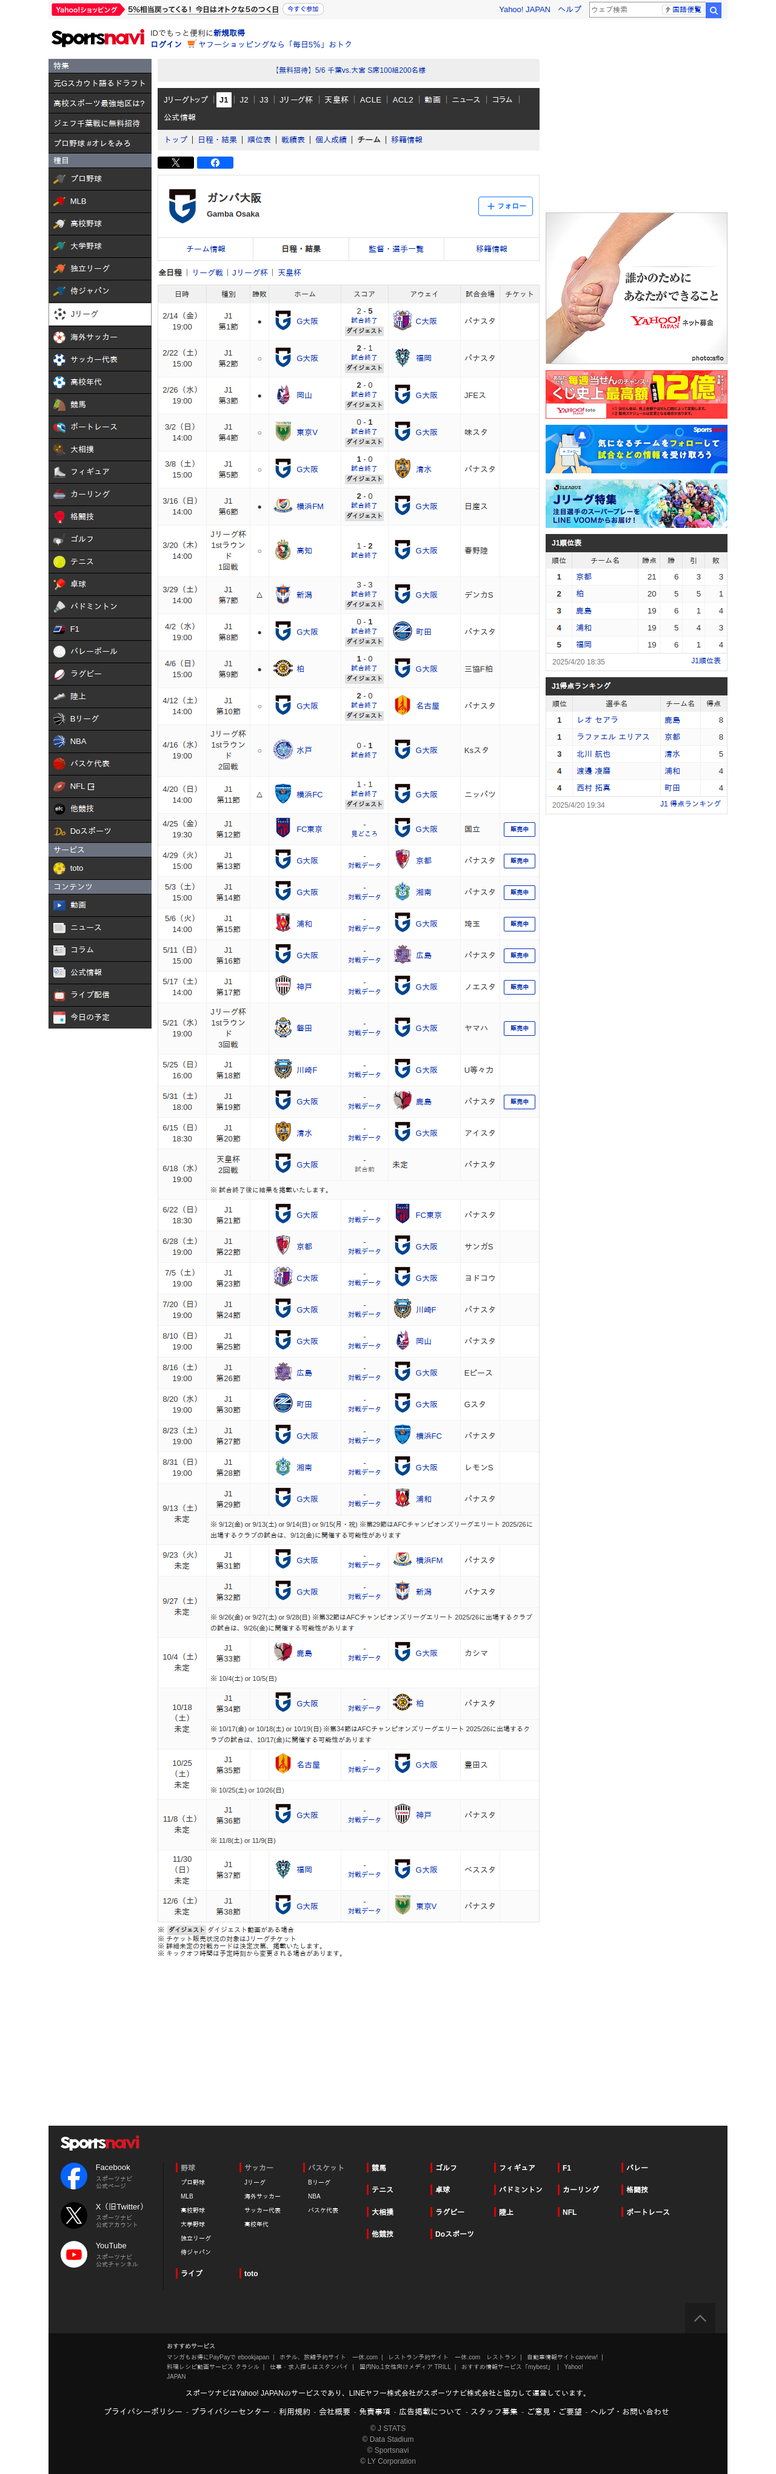
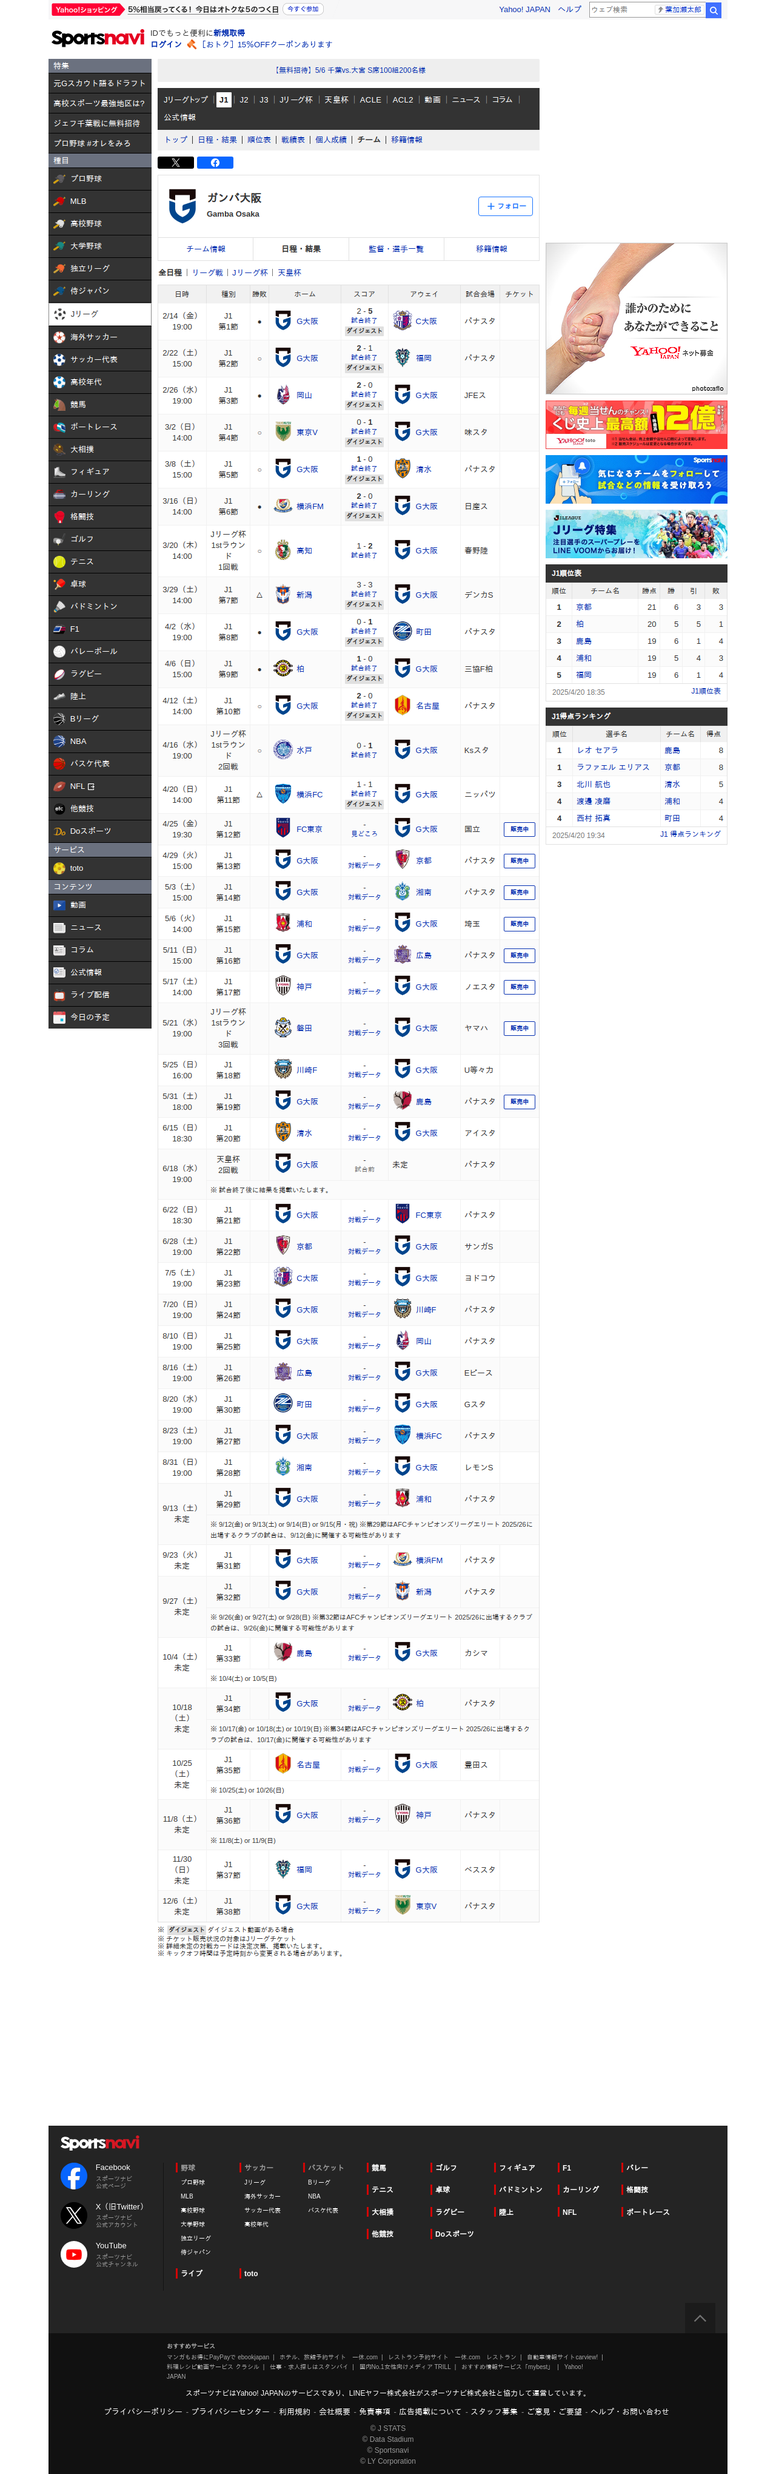
Update G大阪 match info

Changed region(s): [[0.6875, 0.0623, 0.9375, 0.3427]]

diff --git a/cache/debug_team_page.html b/cache/debug_team_page.html
@@ -54,14 +54,14 @@
 
       <script type="text/javascript" src="/js/pc/script.js?null"></script>
       
-        <script type="text/javascript" src="https://s.yimg.jp/l/jquery/3.5.1/jquery.min.js"></script>
+        <script type="text/javascript" src="https://s.yimg.jp/l/jquery/3.5.1/jquery.min.js"></script><link rel="preconnect" href="https://dsb.yahoo.co.jp">
       
     
   <meta name="viewport" content="width=1140">
   <link>
-  <script type="text/javascript" src="https://yads.c.yimg.jp/js/yads-async.js"></script><link rel="preconnect" href="https://dsb.yahoo.co.jp">
+  <script type="text/javascript" src="https://yads.c.yimg.jp/js/yads-async.js"></script>
   
[2 lines of base64/hex data omitted]
 <body>
 
 
@@ -93,21 +93,21 @@
 
   <div class="sc-templa">
     
-    <div id="TEMPLA_MH_VDOM" style="display: block; min-height: 88px;"><div id="msthd"><div id="mhHeadLine"><div id="mhd_uhd_pc" style="display: inline-block;"><div id="msthdFifth"><div class="compo"><a href="https://rdr.yahoo.co.jp/v1/label=L21lbXBmL21oZC91aGQvcGMvMTkzMTYwLzk4MjQ1LzE2MTI4ODMvMQ/p=mempf/d=mempf_redirect_api_log/tk=8dec6df6-7d6e-4085-b834-5afb49ed6c82/ru=aHR0cHM6Ly9zaG9wcGluZy55YWhvby5jby5qcC9wcm9tb3Rpb24vY2FtcGFpZ24vNWRheS8_c2NfZT15eWxrX21oZF9vYmlfbWxnaW4/" data-ylk="slk:h_promo;pos:0" id="msthdUhdPrLink" class="rapid-noclick-resp" data-mhd="promotionLink" data-listener-attached="true"><span class="noLogin">5％相当戻ってくる！ 今日はオトクな5のつく日</span></a></div></div><img src="https://dsb.yahoo.co.jp/api/v1/clear.gif?tk=8dec6df6-7d6e-4085-b834-5afb49ed6c82&amp;p=mempf&amp;d=mempf_tracking_pixel_log&amp;aid=1612883&amp;oid=98245&amp;pid=mhd_uhd_pc&amp;service=soccer&amp;sid=193160&amp;tt=1745547429&amp;usi=193160&amp;location=soccer.yahoo.co.jp&amp;fromjs=mhd" style="display: none;"></div><div id="mhSearchLink"><ul id="mhLinkBox"><li id="mhLinkYtop"><a data-redirectadclick="" href="https://www.yahoo.co.jp/" data-mhd="topLink" data-listener-attached="true">Yahoo! JAPAN</a></li><li id="mhLinkHelp"><a data-redirectadclick="" href="https://support.yahoo-net.jp/PccSports/s/" id="mhHelpLink" data-mhd="helpLink" data-listener-attached="true">ヘルプ</a></li></ul><div id="mhSearchBox"><form data-redirectadclick="" action="https://search.yahoo.co.jp/search" name="p"><div id="mhSearch"><label id="msthdslb" for="msthdsbox" title="キーワード：" class="offLeft">キーワード：</label> <input id="mhSearchInput" type="text" name="p" value="" placeholder="ウェブ検索" data-mhd="searchBox" style=""> <button id="mhSearchBtn" type="submit" title="検索" data-mhd="searchButton" data-listener-attached="true">検索</button> <input type="hidden" name="ei" value="UTF-8" id="msthdei" style=""> <input type="hidden" name="fr" value="ush" style=""><a id="pickupWord" href="https://search.yahoo.co.jp/search?ei=UTF-8&amp;rkf=1&amp;p=%E5%9B%BD%E8%AA%9E%E4%BE%BF%E8%A6%A7&amp;sks=bzw&amp;fr=ush_krank&amp;t.rltm.w2s=true" data-mhd="pcPickupwordLink" data-listener-attached="true">国語便覧<img id="pickupWordImg" src="https://s.yimg.jp/images/templa/mhd/v2/images/boost_14_xsmall.svg" alt="急上昇"><img src="https://dsb.yahoo.co.jp/api/v1/clear.gif?tk=40081eda-fd9b-4ef9-9850-1fc96b3e713f&amp;p=templa&amp;d=mhd_v3&amp;dv=pc&amp;c=cl&amp;t=v&amp;lv=1.0&amp;tv=1.16.0_1.17.0&amp;url=https%3A%2F%2Fsoccer.yahoo.co.jp%2Fjleague%2Fcategory%2Fj1%2Fteams%2F128%2Fschedule%3Fgk%3D2&amp;src=pcPickupwordLink&amp;dt=1745547429640" style="display: none;"></a></div></form></div></div></div><div id="mhMain"><div id="mhServiceLogo"><a data-redirectadclick="" href="https://sports.yahoo.co.jp/" id="mhLogo" data-mhd="pcServiceLogo" data-listener-attached="true"><img src="https://s.yimg.jp/images/sports/common/logo/spn/l_spn_153_2x.png" alt="スポーツナビ" width="153" height="30"></a></div><div id="mhInfos" style="display: table-cell;"><div id="mhRegInfo" class="mhUserInfo" data-mhd="idAppealLink">IDでもっと便利に<a data-redirectadclick="" href="https://account.edit.yahoo.co.jp/signup?.intl=jp&amp;.done=https%3A%2F%2Fsoccer.yahoo.co.jp%2Fjleague%2Fcategory%2Fj1%2Fteams%2F128%2Fschedule%3Fgk%3D2&amp;.src=sports" id="mhReg" data-mhd="userAppealLink" data-listener-attached="true">新規取得</a></div><div id="mhRatelimitInfo" class="mhUserInfo"><a data-redirectadclick="" href="https://accounts.yahoo.co.jp/profile?.src=sports&amp;.done=https%3A%2F%2Fsoccer.yahoo.co.jp%2Fjleague%2Fcategory%2Fj1%2Fteams%2F128%2Fschedule%3Fgk%3D2" id="mhRatelimit" data-mhd="ratelimitLink" data-listener-attached="true">登録情報を確認</a> <a data-redirectadclick="" href="https://login.yahoo.co.jp/config/login?.src=sports&amp;lg=jp&amp;.intl=jp&amp;.done=https%3A%2F%2Fsoccer.yahoo.co.jp%2Fjleague%2Fcategory%2Fj1%2Fteams%2F128%2Fschedule%3Fgk%3D2" id="mhLogin" data-mhd="pcLoginLink" data-listener-attached="true">ログイン</a> <span id="mhd_text_pc" style="display: inline-block;"><a href="https://rdr.yahoo.co.jp/v1/label=L21lbXBmL21oZC90ZXh0L3BjLzE5NTEwMS8yMzY3MDIvMTYyOTg5Ni8x/p=mempf/d=mempf_redirect_api_log/tk=8dec6df6-7d6e-4085-b834-5afb49ed6c82/ru=aHR0cHM6Ly9zaG9wcGluZy55YWhvby5jby5qcC9wcm9tb3Rpb24vY2FtcGFpZ24vcHBldnI1Lz9zY19lPXl5bGtfbWhkX3R4dF9wcGV2cjU/" id="msthdPrLink" class="msthdPrShpIcon" data-mhd="pcHeaderPromotion" data-listener-attached="true">ヤフーショッピングなら「毎日5％」おトク</a>
+    <div id="TEMPLA_MH_VDOM" style="display: block; min-height: 88px;"><div id="msthd"><div id="mhHeadLine"><div id="mhd_uhd_pc" style="display: inline-block;"><div id="msthdFifth"><div class="compo"><a href="https://rdr.yahoo.co.jp/v1/label=L21lbXBmL21oZC91aGQvcGMvMTkzMTYwLzk4MjQ1LzE2MTI4ODMvMQ/p=mempf/d=mempf_redirect_api_log/tk=8dec6df6-7d6e-4085-b834-5afb49ed6c82/ru=aHR0cHM6Ly9zaG9wcGluZy55YWhvby5jby5qcC9wcm9tb3Rpb24vY2FtcGFpZ24vNWRheS8_c2NfZT15eWxrX21oZF9vYmlfbWxnaW4/" data-ylk="slk:h_promo;pos:0" id="msthdUhdPrLink" class="rapid-noclick-resp" data-mhd="promotionLink" data-listener-attached="true"><span class="noLogin">5％相当戻ってくる！ 今日はオトクな5のつく日</span></a></div></div><img src="https://dsb.yahoo.co.jp/api/v1/clear.gif?tk=8dec6df6-7d6e-4085-b834-5afb49ed6c82&amp;p=mempf&amp;d=mempf_tracking_pixel_log&amp;aid=1612883&amp;oid=98245&amp;pid=mhd_uhd_pc&amp;service=soccer&amp;sid=193160&amp;tt=1745547682&amp;usi=193160&amp;location=soccer.yahoo.co.jp&amp;fromjs=mhd" style="display: none;"></div><div id="mhSearchLink"><ul id="mhLinkBox"><li id="mhLinkYtop"><a data-redirectadclick="" href="https://www.yahoo.co.jp/" data-mhd="topLink" data-listener-attached="true">Yahoo! JAPAN</a></li><li id="mhLinkHelp"><a data-redirectadclick="" href="https://support.yahoo-net.jp/PccSports/s/" id="mhHelpLink" data-mhd="helpLink" data-listener-attached="true">ヘルプ</a></li></ul><div id="mhSearchBox"><form data-redirectadclick="" action="https://search.yahoo.co.jp/search" name="p"><div id="mhSearch"><label id="msthdslb" for="msthdsbox" title="キーワード：" class="offLeft">キーワード：</label> <input id="mhSearchInput" type="text" name="p" value="" placeholder="ウェブ検索" data-mhd="searchBox" style=""> <button id="mhSearchBtn" type="submit" title="検索" data-mhd="searchButton" data-listener-attached="true">検索</button> <input type="hidden" name="ei" value="UTF-8" id="msthdei" style=""> <input type="hidden" name="fr" value="ush" style=""><a id="pickupWord" href="https://search.yahoo.co.jp/search?ei=UTF-8&amp;rkf=1&amp;p=%E8%91%89%E5%8A%A0%E7%80%AC%E5%A4%AA%E9%83%8E&amp;sks=bzw&amp;fr=ush_krank&amp;t.rltm.w2s=true" data-mhd="pcPickupwordLink" data-listener-attached="true">葉加瀬太郎<img id="pickupWordImg" src="https://s.yimg.jp/images/templa/mhd/v2/images/boost_14_xsmall.svg" alt="急上昇"><img src="https://dsb.yahoo.co.jp/api/v1/clear.gif?tk=40081eda-fd9b-4ef9-9850-1fc96b3e713f&amp;p=templa&amp;d=mhd_v3&amp;dv=pc&amp;c=cl&amp;t=v&amp;lv=1.0&amp;tv=1.16.0_1.17.0&amp;url=https%3A%2F%2Fsoccer.yahoo.co.jp%2Fjleague%2Fcategory%2Fj1%2Fteams%2F128%2Fschedule%3Fgk%3D2&amp;src=pcPickupwordLink&amp;dt=1745547682966" style="display: none;"></a></div></form></div></div></div><div id="mhMain"><div id="mhServiceLogo"><a data-redirectadclick="" href="https://sports.yahoo.co.jp/" id="mhLogo" data-mhd="pcServiceLogo" data-listener-attached="true"><img src="https://s.yimg.jp/images/sports/common/logo/spn/l_spn_153_2x.png" alt="スポーツナビ" width="153" height="30"></a></div><div id="mhInfos" style="display: table-cell;"><div id="mhRegInfo" class="mhUserInfo" data-mhd="idAppealLink">IDでもっと便利に<a data-redirectadclick="" href="https://account.edit.yahoo.co.jp/signup?.intl=jp&amp;.done=https%3A%2F%2Fsoccer.yahoo.co.jp%2Fjleague%2Fcategory%2Fj1%2Fteams%2F128%2Fschedule%3Fgk%3D2&amp;.src=sports" id="mhReg" data-mhd="userAppealLink" data-listener-attached="true">新規取得</a></div><div id="mhRatelimitInfo" class="mhUserInfo"><a data-redirectadclick="" href="https://accounts.yahoo.co.jp/profile?.src=sports&amp;.done=https%3A%2F%2Fsoccer.yahoo.co.jp%2Fjleague%2Fcategory%2Fj1%2Fteams%2F128%2Fschedule%3Fgk%3D2" id="mhRatelimit" data-mhd="ratelimitLink" data-listener-attached="true">登録情報を確認</a> <a data-redirectadclick="" href="https://login.yahoo.co.jp/config/login?.src=sports&amp;lg=jp&amp;.intl=jp&amp;.done=https%3A%2F%2Fsoccer.yahoo.co.jp%2Fjleague%2Fcategory%2Fj1%2Fteams%2F128%2Fschedule%3Fgk%3D2" id="mhLogin" data-mhd="pcLoginLink" data-listener-attached="true">ログイン</a> <span id="mhd_text_pc" style="display: inline-block;"><a href="https://rdr.yahoo.co.jp/v1/label=L21lbXBmL21oZC90ZXh0L3BjLzE5NTEwMS8yMzUxNzgvMTYyOTg5Ni8x/p=mempf/d=mempf_redirect_api_log/tk=8dec6df6-7d6e-4085-b834-5afb49ed6c82/ru=aHR0cHM6Ly9hdWN0aW9ucy55YWhvby5jby5qcC9jYW1wYWlnbi9wcm9tby9zdG9yZV9saW1pdGVkX2NvdXBvbg/" id="msthdPrLink" class="msthdNewAucIcon" data-mhd="pcHeaderPromotion" data-listener-attached="true">［おトク］15％OFFクーポンあります</a>
 <style>
-#msthd .msthdPrShpIcon, .mhd .msthdPrShpIcon {
+#msthd .msthdNewAucIcon, .mhd .msthdNewAucIcon {
 display: inline-block;
 *display: inline;
 *zoom: 1;
 min-height: 18px;
-background-image: url(https://s.yimg.jp/c/icon/s/bsc/2.1/s/shopping40.png);
+background-image: url(https://s.yimg.jp/c/icon/s/bsc/2.1/a/auctions40.png);
 background-repeat: no-repeat;
 background-position: -2px 0;
 background-size: 18px 18px;
 padding-left: 18px;
 line-height: 1.5;
 }
-</style><img src="https://dsb.yahoo.co.jp/api/v1/clear.gif?tk=8dec6df6-7d6e-4085-b834-5afb49ed6c82&amp;p=mempf&amp;d=mempf_tracking_pixel_log&amp;aid=1629896&amp;oid=236702&amp;pid=mhd_text_pc&amp;service=soccer&amp;sid=195101&amp;tt=1745547429&amp;usi=195122%2C195116%2C196145%2C195101&amp;location=soccer.yahoo.co.jp&amp;fromjs=mhd" style="display: none;"></span></div></div></div><img src="https://dsb.yahoo.co.jp/api/v1/clear.gif?tk=40081eda-fd9b-4ef9-9850-1fc96b3e713f&amp;p=templa&amp;d=mhd_v3&amp;dv=pc&amp;c=cl&amp;t=v&amp;lv=1.0&amp;tv=1.16.0_1.17.0&amp;url=https%3A%2F%2Fsoccer.yahoo.co.jp%2Fjleague%2Fcategory%2Fj1%2Fteams%2F128%2Fschedule%3Fgk%3D2&amp;src=top&amp;dt=1745547428730" alt="" style="display: none;"></div><script src="https://s.yimg.jp/images/security/pf/yjsecure.js"></script><script src="https://s.yimg.jp/images/mempf/mhd/2_3_0/mempf.js"></script><script>window.msthdPromo=function(){YAHOO.JP.msthd.Promo.init()}</script><script>!function(t,e){var s=t.getElementsByTagName(e)[0],a=t.createElement(e);a.id="msthdScript",a.setAttribute("charset","UTF-8"),a.src="https://s.yimg.jp/images/templa/mhd/v2/pc/js/1.16.0/std-min.js",a.setAttribute("data-s",""),a.setAttribute("data-tm",""),s.parentNode.insertBefore(a,s)}(document,"script")</script></div><div id="TEMPLA_MHCSS"><link href="https://s.yimg.jp/images/templa/mhd/v2/pc/css/1.17.0/std.css" rel="stylesheet" type="text/css" media="all"></div><div id="TEMPLA_EMG"></div>
+</style><img src="https://dsb.yahoo.co.jp/api/v1/clear.gif?tk=8dec6df6-7d6e-4085-b834-5afb49ed6c82&amp;p=mempf&amp;d=mempf_tracking_pixel_log&amp;aid=1629896&amp;oid=235178&amp;pid=mhd_text_pc&amp;service=soccer&amp;sid=195101&amp;tt=1745547682&amp;usi=195122%2C195116%2C196145%2C195101&amp;location=soccer.yahoo.co.jp&amp;fromjs=mhd" style="display: none;"></span></div></div></div><img src="https://dsb.yahoo.co.jp/api/v1/clear.gif?tk=40081eda-fd9b-4ef9-9850-1fc96b3e713f&amp;p=templa&amp;d=mhd_v3&amp;dv=pc&amp;c=cl&amp;t=v&amp;lv=1.0&amp;tv=1.16.0_1.17.0&amp;url=https%3A%2F%2Fsoccer.yahoo.co.jp%2Fjleague%2Fcategory%2Fj1%2Fteams%2F128%2Fschedule%3Fgk%3D2&amp;src=top&amp;dt=1745547681683" alt="" style="display: none;"></div><script src="https://s.yimg.jp/images/security/pf/yjsecure.js"></script><script src="https://s.yimg.jp/images/mempf/mhd/2_3_0/mempf.js"></script><script>window.msthdPromo=function(){YAHOO.JP.msthd.Promo.init()}</script><script>!function(t,e){var s=t.getElementsByTagName(e)[0],a=t.createElement(e);a.id="msthdScript",a.setAttribute("charset","UTF-8"),a.src="https://s.yimg.jp/images/templa/mhd/v2/pc/js/1.16.0/std-min.js",a.setAttribute("data-s",""),a.setAttribute("data-tm",""),s.parentNode.insertBefore(a,s)}(document,"script")</script></div><div id="TEMPLA_MHCSS"><link href="https://s.yimg.jp/images/templa/mhd/v2/pc/css/1.17.0/std.css" rel="stylesheet" type="text/css" media="all"></div><div id="TEMPLA_EMG"></div>
     <div id="TEMPLA_EMG3_VDOM"><div id="TEMPLA_EMG3"><!-- EMG3 noResult --></div>
 <script>
     YAHOO = window.YAHOO || {};
@@ -6643,7 +6643,7 @@ div[class*=-centerColumn] [data-ino="id-57438"]#subnav .subNav__item--current a:
       
       <div class="sc-modCommon01">
         
-      <div id="ad-sqb" class="sc-modCommon02 target_modules"><div style="text-align:center;"><iframe src="https://s.yimg.jp/images/listing/tool/yads/yads-iframe.html?start_prod_num=0&amp;s=44304_13121&amp;fr_id=yads_5564582-0&amp;p_elem=ad-sqb&amp;type=jleague_pc_other&amp;u=https%3A%2F%2Fsoccer.yahoo.co.jp%2Fjleague%2Fcategory%2Fj1%2Fteams%2F128%2Fschedule%3Fgk%3D2&amp;pv_ts=1745547427902&amp;pcat_id=207&amp;suid=c2de5d62-88d4-4092-badc-7d39e57d58a9" style="border: none; clear: both; margin: auto; overflow: hidden;" allowtransparency="true" frameborder="0" height="215" id="yads_5564582-0" name="yads_5564582-0" scrolling="no" title="Ad Content" width="600" allow="fullscreen; attribution-reporting" allowfullscreen="" loading="eager"></iframe></div></div>
+      <div id="ad-sqb" class="sc-modCommon02 target_modules"><div style="text-align:center;"><iframe src="https://s.yimg.jp/images/listing/tool/yads/yads-iframe.html?start_prod_num=0&amp;s=44304_13121&amp;fr_id=yads_3000186-0&amp;p_elem=ad-sqb&amp;type=jleague_pc_other&amp;u=https%3A%2F%2Fsoccer.yahoo.co.jp%2Fjleague%2Fcategory%2Fj1%2Fteams%2F128%2Fschedule%3Fgk%3D2&amp;pv_ts=1745547680599&amp;pcat_id=207&amp;suid=e07edc9d-1ed7-44fe-ade8-43b425a643fb" style="border: none; clear: both; margin: auto; overflow: hidden;" allowtransparency="true" frameborder="0" height="215" id="yads_3000186-0" name="yads_3000186-0" scrolling="no" title="Ad Content" width="600" allow="fullscreen; attribution-reporting" allowfullscreen="" loading="eager"></iframe></div></div>
       <script type="text/javascript">
         (() => {
           const requestYads = () => {
@@ -6690,7 +6690,7 @@ div[class*=-centerColumn] [data-ino="id-57438"]#subnav .subNav__item--current a:
   <div class="sc-modCommon02">
     <div class="sc-lrec">
       
-      <div id="ad-lrec" class="sc-modCommon02 target_modules"><div style="text-align:center;"><iframe src="https://s.yimg.jp/images/listing/tool/yads/yads-iframe.html?start_prod_num=2&amp;s=29073_2286&amp;fr_id=yads_5245380-1&amp;p_elem=ad-lrec&amp;type=jleague_pc_other&amp;u=https%3A%2F%2Fsoccer.yahoo.co.jp%2Fjleague%2Fcategory%2Fj1%2Fteams%2F128%2Fschedule%3Fgk%3D2&amp;pv_ts=1745547427902&amp;pcat_id=207&amp;bi=0&amp;suid=c2de5d62-88d4-4092-badc-7d39e57d58a9" style="border: none; clear: both; margin: auto; overflow: hidden;" allowtransparency="true" frameborder="0" height="250" id="yads_5245380-1" name="yads_5245380-1" scrolling="no" title="Ad Content" width="300" allow="fullscreen; attribution-reporting" allowfullscreen="" loading="eager"></iframe></div><div style="text-align:center;"><iframe src="https://s.yimg.jp/images/listing/tool/yads/yads-iframe.html?start_prod_num=4&amp;s=29073_2286&amp;fr_id=yads_5245380-1&amp;p_elem=ad-lrec&amp;type=jleague_pc_other&amp;u=https%3A%2F%2Fsoccer.yahoo.co.jp%2Fjleague%2Fcategory%2Fj1%2Fteams%2F128%2Fschedule%3Fgk%3D2&amp;pv_ts=1745547427902&amp;pcat_id=207&amp;bi=0&amp;suid=c2de5d62-88d4-4092-badc-7d39e57d58a9" style="border:none;clear:both;display:block;margin:auto;overflow:hidden" allowtransparency="true" frameborder="0" height="250" id="yads_5245380-1" name="yads_5245380-1" scrolling="no" title="Ad Content" width="300" allow="fullscreen; attribution-reporting" allowfullscreen="" loading="eager"></iframe></div></div>
+      <div id="ad-lrec" class="sc-modCommon02 target_modules"><div style="text-align:center;"><iframe src="https://s.yimg.jp/images/listing/tool/yads/yads-iframe.html?start_prod_num=2&amp;s=29073_2286&amp;fr_id=yads_3260051-1&amp;p_elem=ad-lrec&amp;type=jleague_pc_other&amp;u=https%3A%2F%2Fsoccer.yahoo.co.jp%2Fjleague%2Fcategory%2Fj1%2Fteams%2F128%2Fschedule%3Fgk%3D2&amp;pv_ts=1745547680599&amp;pcat_id=207&amp;bi=0&amp;suid=e07edc9d-1ed7-44fe-ade8-43b425a643fb" style="border: none; clear: both; margin: auto; overflow: hidden;" allowtransparency="true" frameborder="0" height="300" id="yads_3260051-1" name="yads_3260051-1" scrolling="no" title="Ad Content" width="300" allow="fullscreen; attribution-reporting" allowfullscreen="" loading="eager"></iframe></div><div style="text-align:center;"><iframe src="https://s.yimg.jp/images/listing/tool/yads/yads-iframe.html?start_prod_num=4&amp;s=29073_2286&amp;fr_id=yads_3260051-1&amp;p_elem=ad-lrec&amp;type=jleague_pc_other&amp;u=https%3A%2F%2Fsoccer.yahoo.co.jp%2Fjleague%2Fcategory%2Fj1%2Fteams%2F128%2Fschedule%3Fgk%3D2&amp;pv_ts=1745547680599&amp;pcat_id=207&amp;bi=0&amp;suid=e07edc9d-1ed7-44fe-ade8-43b425a643fb" style="border:none;clear:both;display:block;margin:auto;overflow:hidden" allowtransparency="true" frameborder="0" height="250" id="yads_3260051-1" name="yads_3260051-1" scrolling="no" title="Ad Content" width="300" allow="fullscreen; attribution-reporting" allowfullscreen="" loading="eager"></iframe></div></div>
       <script type="text/javascript">
         (() => {
           const requestYads = () => {
@@ -7032,7 +7032,7 @@ div[class$=-rightColumn] [data-ino="id-46099"].sn-modBanner .sn-banner__img {
 
       
       
-      <div id="ydn-mr" class="sc-modCommon02 target_modules"><div style="text-align:center;"><iframe src="https://s.yimg.jp/images/listing/tool/yads/yads-iframe.html?start_prod_num=0&amp;s=44040_17503&amp;fr_id=yads_9120969-2&amp;p_elem=ydn-mr&amp;type=jleague_pc_other&amp;u=https%3A%2F%2Fsoccer.yahoo.co.jp%2Fjleague%2Fcategory%2Fj1%2Fteams%2F128%2Fschedule%3Fgk%3D2&amp;pv_ts=1745547427902&amp;pcat_id=207&amp;suid=c2de5d62-88d4-4092-badc-7d39e57d58a9" style="border: none; clear: both; margin: auto; overflow: hidden;" allowtransparency="true" frameborder="0" height="600" id="yads_9120969-2" name="yads_9120969-2" scrolling="no" title="Ad Content" width="300" allow="fullscreen; attribution-reporting" allowfullscreen="" loading="eager"></iframe></div><div style="text-align:center;"><iframe src="https://s.yimg.jp/images/listing/tool/yads/yads-iframe.html?start_prod_num=2&amp;s=44040_17503&amp;fr_id=yads_9120969-2&amp;p_elem=ydn-mr&amp;type=jleague_pc_other&amp;u=https%3A%2F%2Fsoccer.yahoo.co.jp%2Fjleague%2Fcategory%2Fj1%2Fteams%2F128%2Fschedule%3Fgk%3D2&amp;pv_ts=1745547427902&amp;pcat_id=207&amp;suid=c2de5d62-88d4-4092-badc-7d39e57d58a9" style="border:none;clear:both;display:block;margin:auto;overflow:hidden" allowtransparency="true" frameborder="0" height="250" id="yads_9120969-2" name="yads_9120969-2" scrolling="no" title="Ad Content" width="300" allow="fullscreen; attribution-reporting" allowfullscreen="" loading="eager"></iframe></div></div>
+      <div id="ydn-mr" class="sc-modCommon02 target_modules"><div style="text-align:center;"><iframe src="https://s.yimg.jp/images/listing/tool/yads/yads-iframe.html?start_prod_num=0&amp;s=44040_17503&amp;fr_id=yads_258394-2&amp;p_elem=ydn-mr&amp;type=jleague_pc_other&amp;u=https%3A%2F%2Fsoccer.yahoo.co.jp%2Fjleague%2Fcategory%2Fj1%2Fteams%2F128%2Fschedule%3Fgk%3D2&amp;pv_ts=1745547680599&amp;pcat_id=207&amp;suid=e07edc9d-1ed7-44fe-ade8-43b425a643fb" style="border: none; clear: both; margin: auto; overflow: hidden;" allowtransparency="true" frameborder="0" height="600" id="yads_258394-2" name="yads_258394-2" scrolling="no" title="Ad Content" width="300" allow="fullscreen; attribution-reporting" allowfullscreen="" loading="eager"></iframe></div><div style="text-align:center;"><iframe src="https://s.yimg.jp/images/listing/tool/yads/yads-iframe.html?start_prod_num=2&amp;s=44040_17503&amp;fr_id=yads_258394-2&amp;p_elem=ydn-mr&amp;type=jleague_pc_other&amp;u=https%3A%2F%2Fsoccer.yahoo.co.jp%2Fjleague%2Fcategory%2Fj1%2Fteams%2F128%2Fschedule%3Fgk%3D2&amp;pv_ts=1745547680599&amp;pcat_id=207&amp;suid=e07edc9d-1ed7-44fe-ade8-43b425a643fb" style="border:none;clear:both;display:block;margin:auto;overflow:hidden" allowtransparency="true" frameborder="0" height="250" id="yads_258394-2" name="yads_258394-2" scrolling="no" title="Ad Content" width="300" allow="fullscreen; attribution-reporting" allowfullscreen="" loading="eager"></iframe></div></div>
       <script type="text/javascript">
         (() => {
           const requestYads = () => {
@@ -7530,4 +7530,4 @@ div[class$=-rightColumn] [data-ino="id-46099"].sn-modBanner .sn-banner__img {
 
 
 
-<iframe src="https://www.google.com/recaptcha/api2/aframe" width="0" height="0" style="display: none;"></iframe><iframe name="google_ads_top_frame" id="google_ads_top_frame" style="display: none; position: fixed; left: -999px; top: -999px; width: 0px; height: 0px;"></iframe></body><iframe name="goog_topics_frame" src="https://securepubads.g.doubleclick.net/static/topics/topics_frame.html" style="display: none;"></iframe></html>
+<iframe name="google_ads_top_frame" id="google_ads_top_frame" style="display: none; position: fixed; left: -999px; top: -999px; width: 0px; height: 0px;"></iframe><iframe src="https://www.google.com/recaptcha/api2/aframe" width="0" height="0" style="display: none;"></iframe></body><iframe name="goog_topics_frame" src="https://securepubads.g.doubleclick.net/static/topics/topics_frame.html" style="display: none;"></iframe></html>
